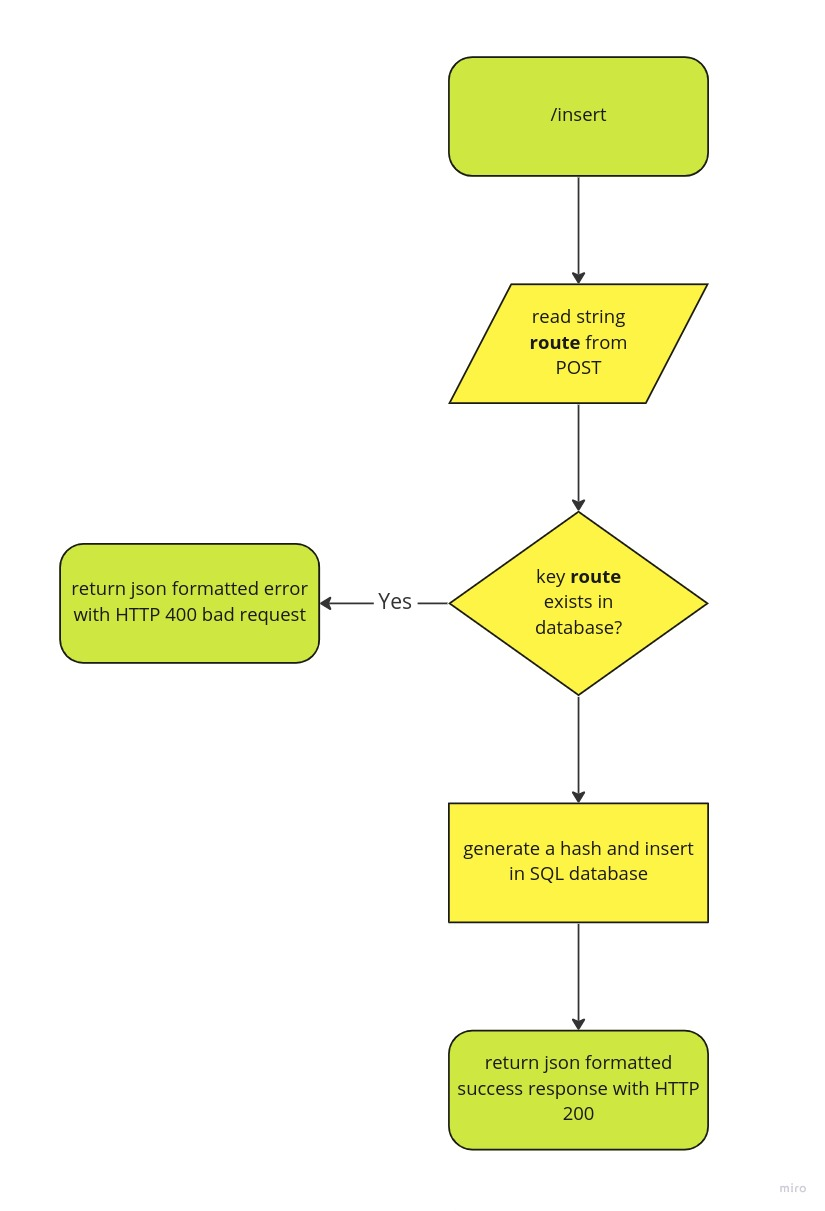
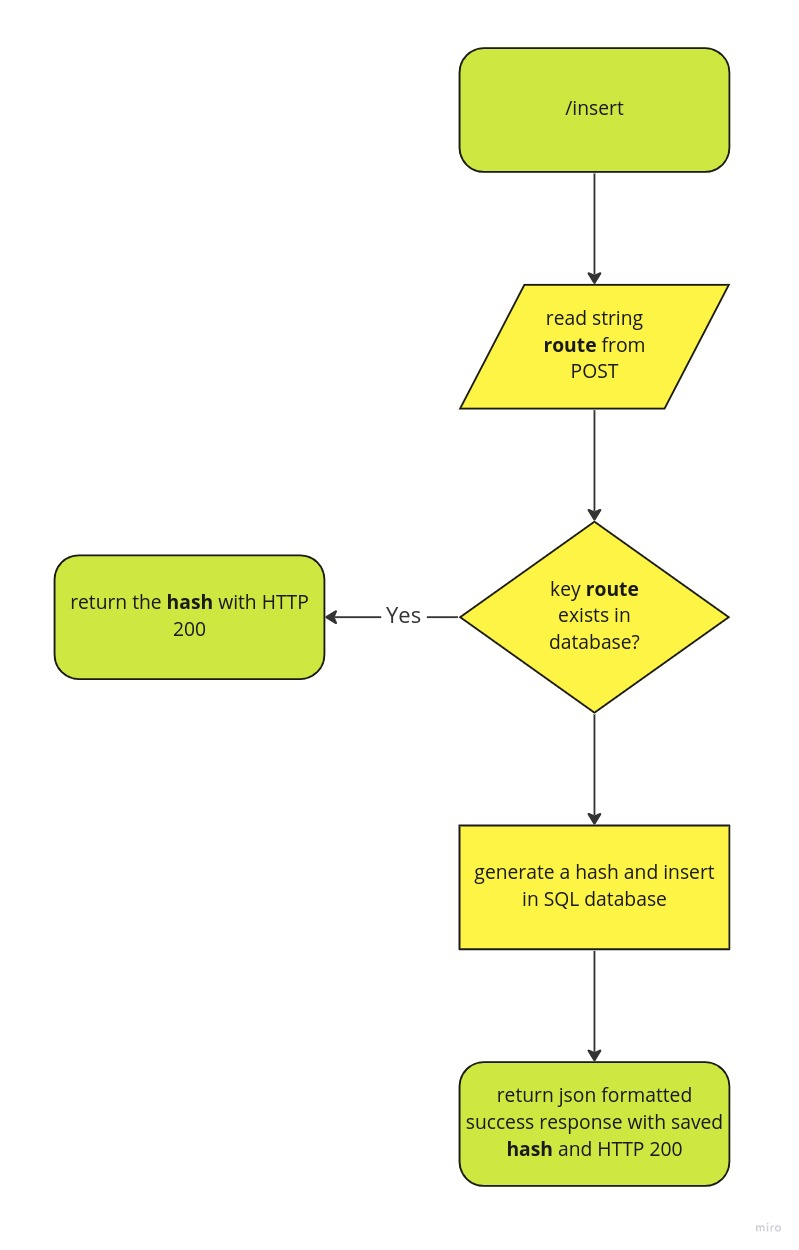
Url insert implementation

Changed region(s): [[0.0601, 0.0306, 0.9312, 0.9777]]

diff --git a/tests/Feature/Controllers/InsertControllerTest.php b/tests/Feature/Controllers/InsertControllerTest.php
@@ -1,0 +1,46 @@
+<?php
+
+namespace Tests\Feature\Controllers;
+
+use App\Models\Url;
+use Illuminate\Foundation\Testing\RefreshDatabase;
+use Illuminate\Foundation\Testing\WithFaker;
+use Tests\TestCase;
+
+class InsertControllerTest extends TestCase
+{
+    private $redirect = 'https://www.google.com/';
+
+    /**
+     * A basic feature test example.
+     *
+     * @return void
+     */
+    public function test_if_correctly_insert_in_database()
+    {
+        $response = $this->post('/api/insert', [
+            'url' => $this->redirect
+        ]);
+
+        $response->assertStatus(200);
+
+        $data = json_decode($response->getContent());
+        $this->assertEquals('success', $data->status);
+
+        $url = Url::where('hash', $data->hash)->first();
+        $this->assertEquals($this->redirect, $url->url);
+
+        // test_if_return_same_hash_in_duplicated_url
+
+        $response = $this->post('/api/insert', [
+            'url' => $this->redirect
+        ]);
+
+        $response->assertStatus(200);
+
+        $data = json_decode($response->getContent());
+        $this->assertEquals('success', $data->status);
+
+        $this->assertEquals($url->hash, $data->hash);
+    }
+}

diff --git a/app/Http/Controllers/InsertController.php b/app/Http/Controllers/InsertController.php
@@ -1,0 +1,34 @@
+<?php
+
+namespace App\Http\Controllers;
+
+use App\Http\Requests\InsertRequest;
+use App\Models\Url;
+use App\Services\HashGenerator;
+use Illuminate\Http\Request;
+
+class InsertController extends Controller
+{
+    /**
+     * Handle the incoming request.
+     *
+     * @param  \Illuminate\Http\Request  $request
+     * @return \Illuminate\Http\Response
+     */
+    public function __invoke(InsertRequest $request)
+    {
+        $url = Url::where('url', $request->url)->firstOr(function () use ($request) {
+            $hash = HashGenerator::generate();
+
+            return Url::create([
+                'url'  => $request->url,
+                'hash' => $hash,
+            ]);
+        });
+
+        return response()->json([
+            'status' => 'success',
+            'hash'   => $url->hash
+        ]);
+    }
+}

diff --git a/app/Http/Requests/InsertRequest.php b/app/Http/Requests/InsertRequest.php
@@ -1,0 +1,30 @@
+<?php
+
+namespace App\Http\Requests;
+
+use Illuminate\Foundation\Http\FormRequest;
+
+class InsertRequest extends FormRequest
+{
+    /**
+     * Determine if the user is authorized to make this request.
+     *
+     * @return bool
+     */
+    public function authorize()
+    {
+        return true;
+    }
+
+    /**
+     * Get the validation rules that apply to the request.
+     *
+     * @return array<string, mixed>
+     */
+    public function rules()
+    {
+        return [
+            'url' => ['required', 'url']
+        ];
+    }
+}

diff --git a/routes/api.php b/routes/api.php
@@ -1,5 +1,6 @@
 <?php
 
+use App\Http\Controllers\InsertController;
 use Illuminate\Http\Request;
 use Illuminate\Support\Facades\Route;
 
@@ -14,6 +15,8 @@ use Illuminate\Support\Facades\Route;
 |
 */
 
-Route::middleware('auth:sanctum')->get('/user', function (Request $request) {
-    return $request->user();
-});
+// Route::middleware('auth:sanctum')->get('/user', function (Request $request) {
+//     return $request->user();
+// });
+
+Route::post('/insert', InsertController::class);

diff --git a/tests/TestCase.php b/tests/TestCase.php
@@ -2,9 +2,10 @@
 
 namespace Tests;
 
+use Illuminate\Foundation\Testing\RefreshDatabase;
 use Illuminate\Foundation\Testing\TestCase as BaseTestCase;
 
 abstract class TestCase extends BaseTestCase
 {
-    use CreatesApplication;
+    use CreatesApplication, RefreshDatabase;
 }

diff --git a/tests/Unit/Services/HashGeneratorTest.php b/tests/Unit/Services/HashGeneratorTest.php
@@ -3,12 +3,10 @@
 namespace Tests\Unit\Services;
 
 use App\Services\HashGenerator;
-use Illuminate\Foundation\Testing\DatabaseMigrations;
 use Tests\TestCase;
 
 class HashGeneratorTest extends TestCase
 {
-    use DatabaseMigrations;
 
     /**
      * @return void
